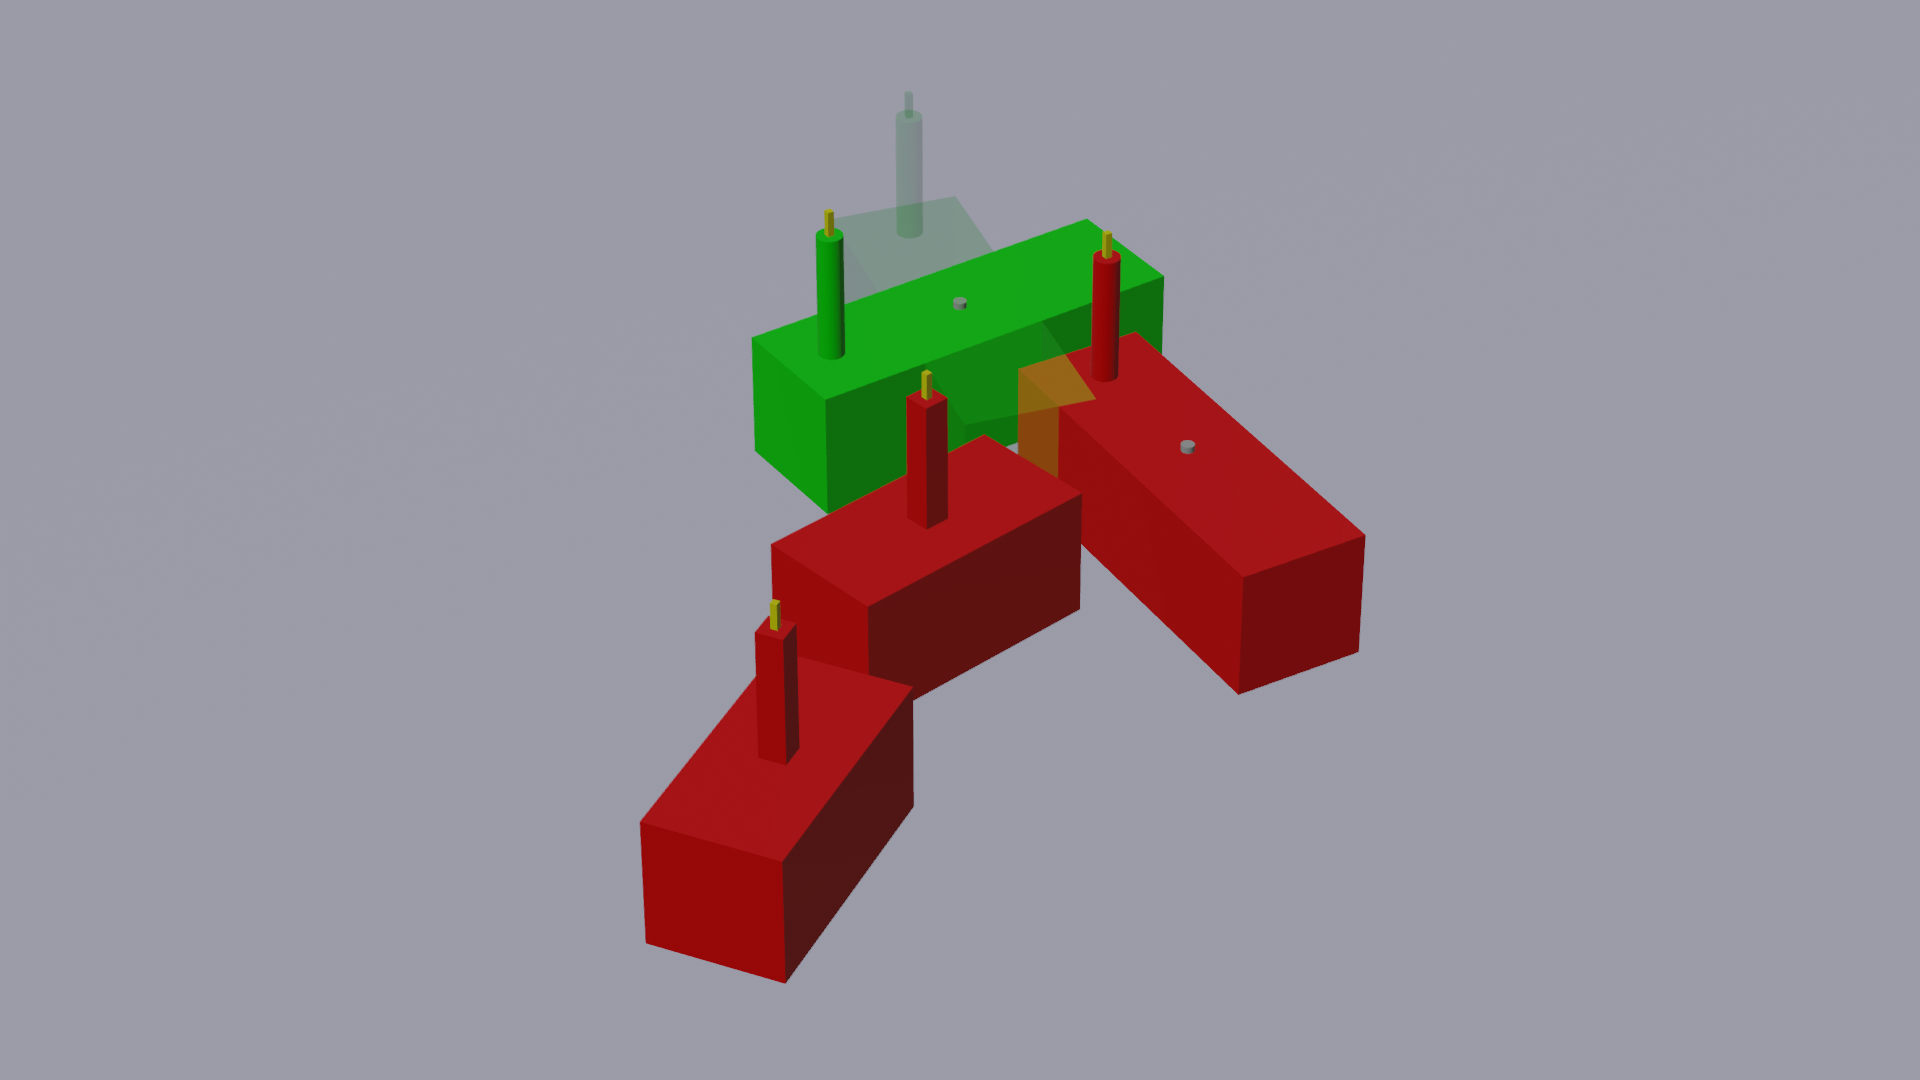
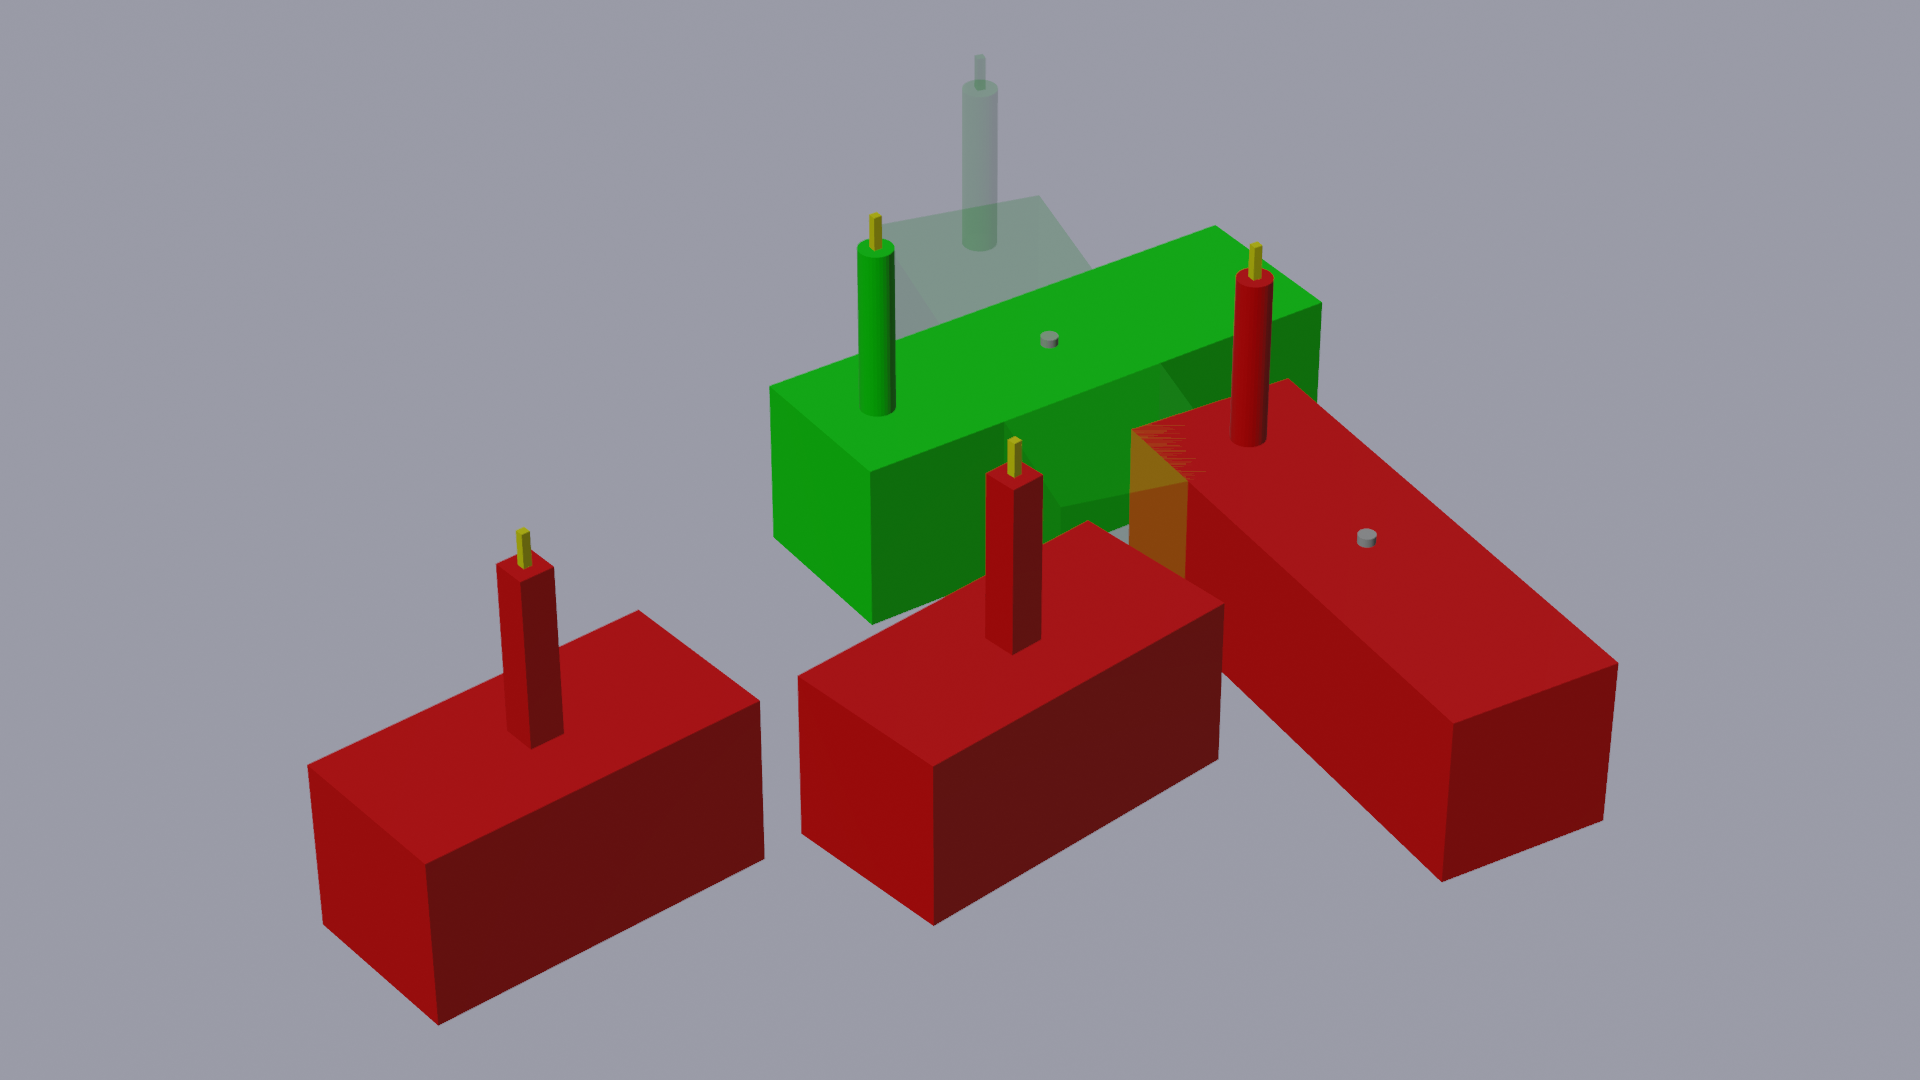
chore (minor): improve camera view utilizing bpy.ops.view3d.camera_to_view_selected()

Changed region(s): [[0.1562, 0.0611, 0.8438, 0.9472]]

diff --git a/src/world.py b/src/world.py
@@ -345,8 +345,17 @@ class BlenderWorld:
     def render_image(self, location=(30, 0, 20), rotation=(0.96, 0, calc.RAD90), focal_length=90):
         bpy.ops.object.camera_add(location=location, rotation=rotation)
         cam = bpy.context.object
-        cam.data.lens = focal_length
+        cam.data.lens = focal_length + 10
         bpy.context.scene.camera = cam
+
+        bpy.ops.object.select_all(action='SELECT')
+        self.base_object.select_set(False)
+        for child in self.base_object.children:
+            if child.phobostype == 'collision' or child.phobostype == 'visual':
+                child.select_set(False)
+        bpy.ops.view3d.camera_to_view_selected()
+
+        cam.data.lens = focal_length
         bpy.context.scene.render.filepath = self.directory + "/images/" + self.name + ".png"
         bpy.ops.render.render(write_still=True)
         return cam
